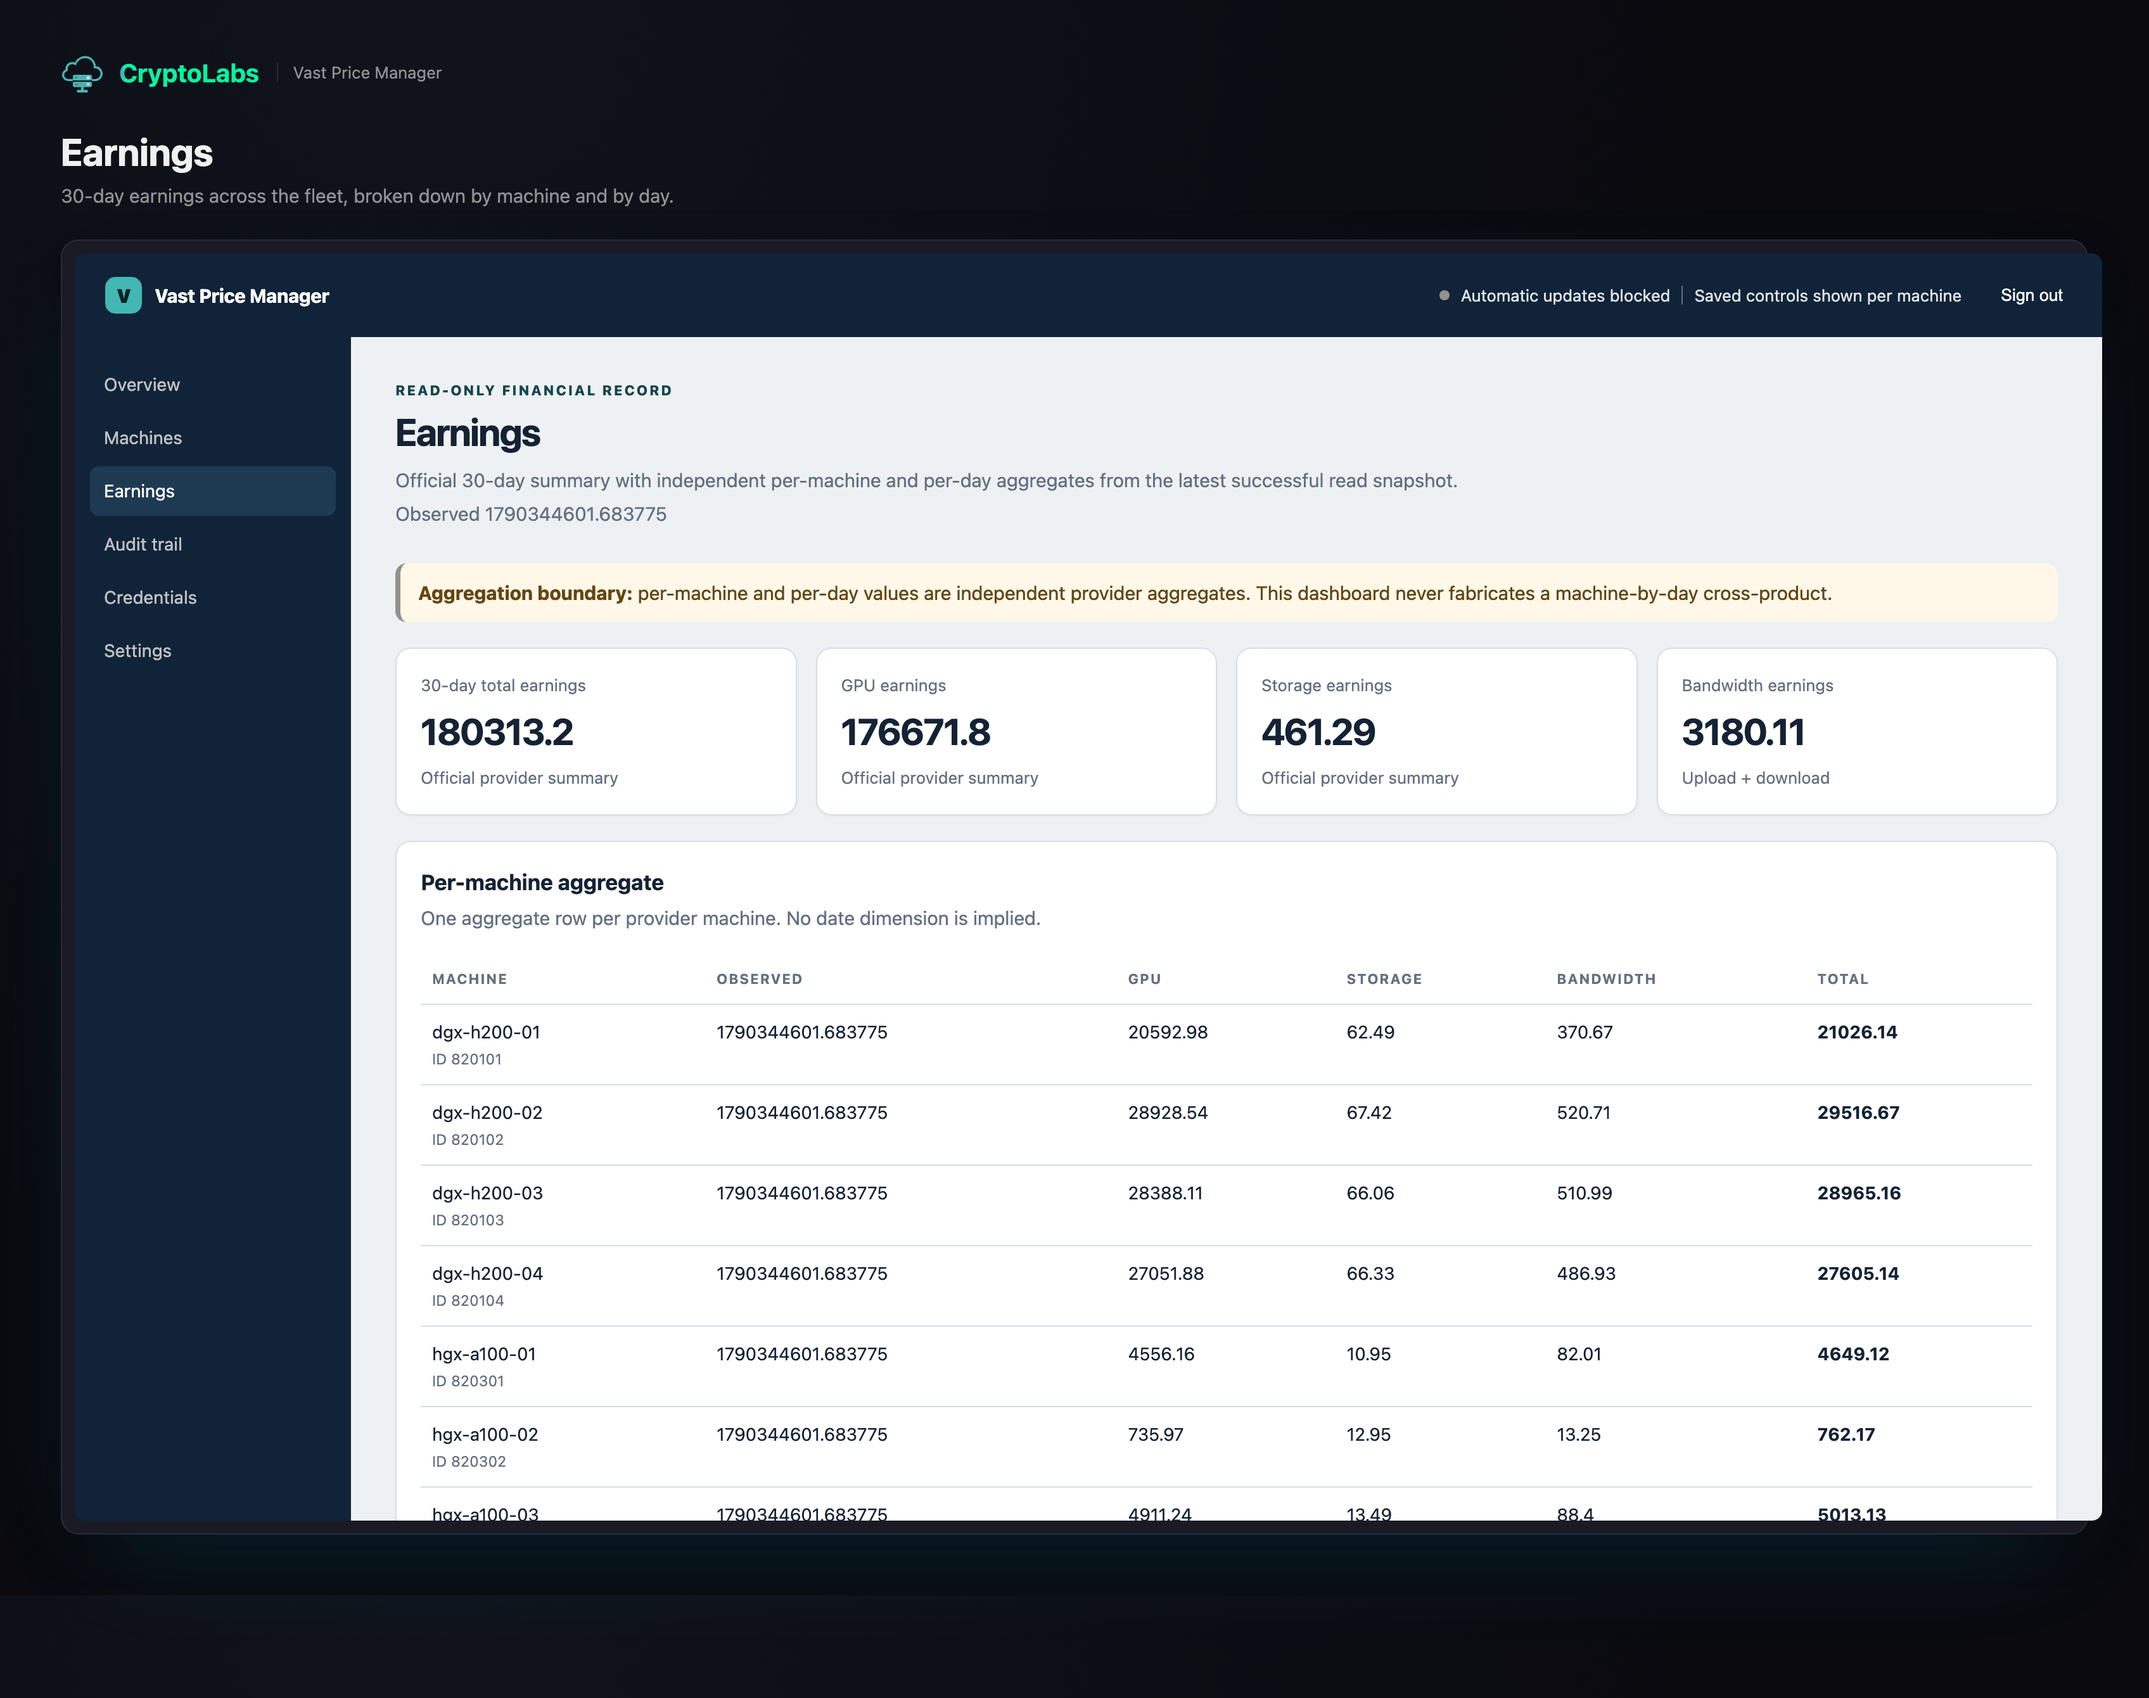
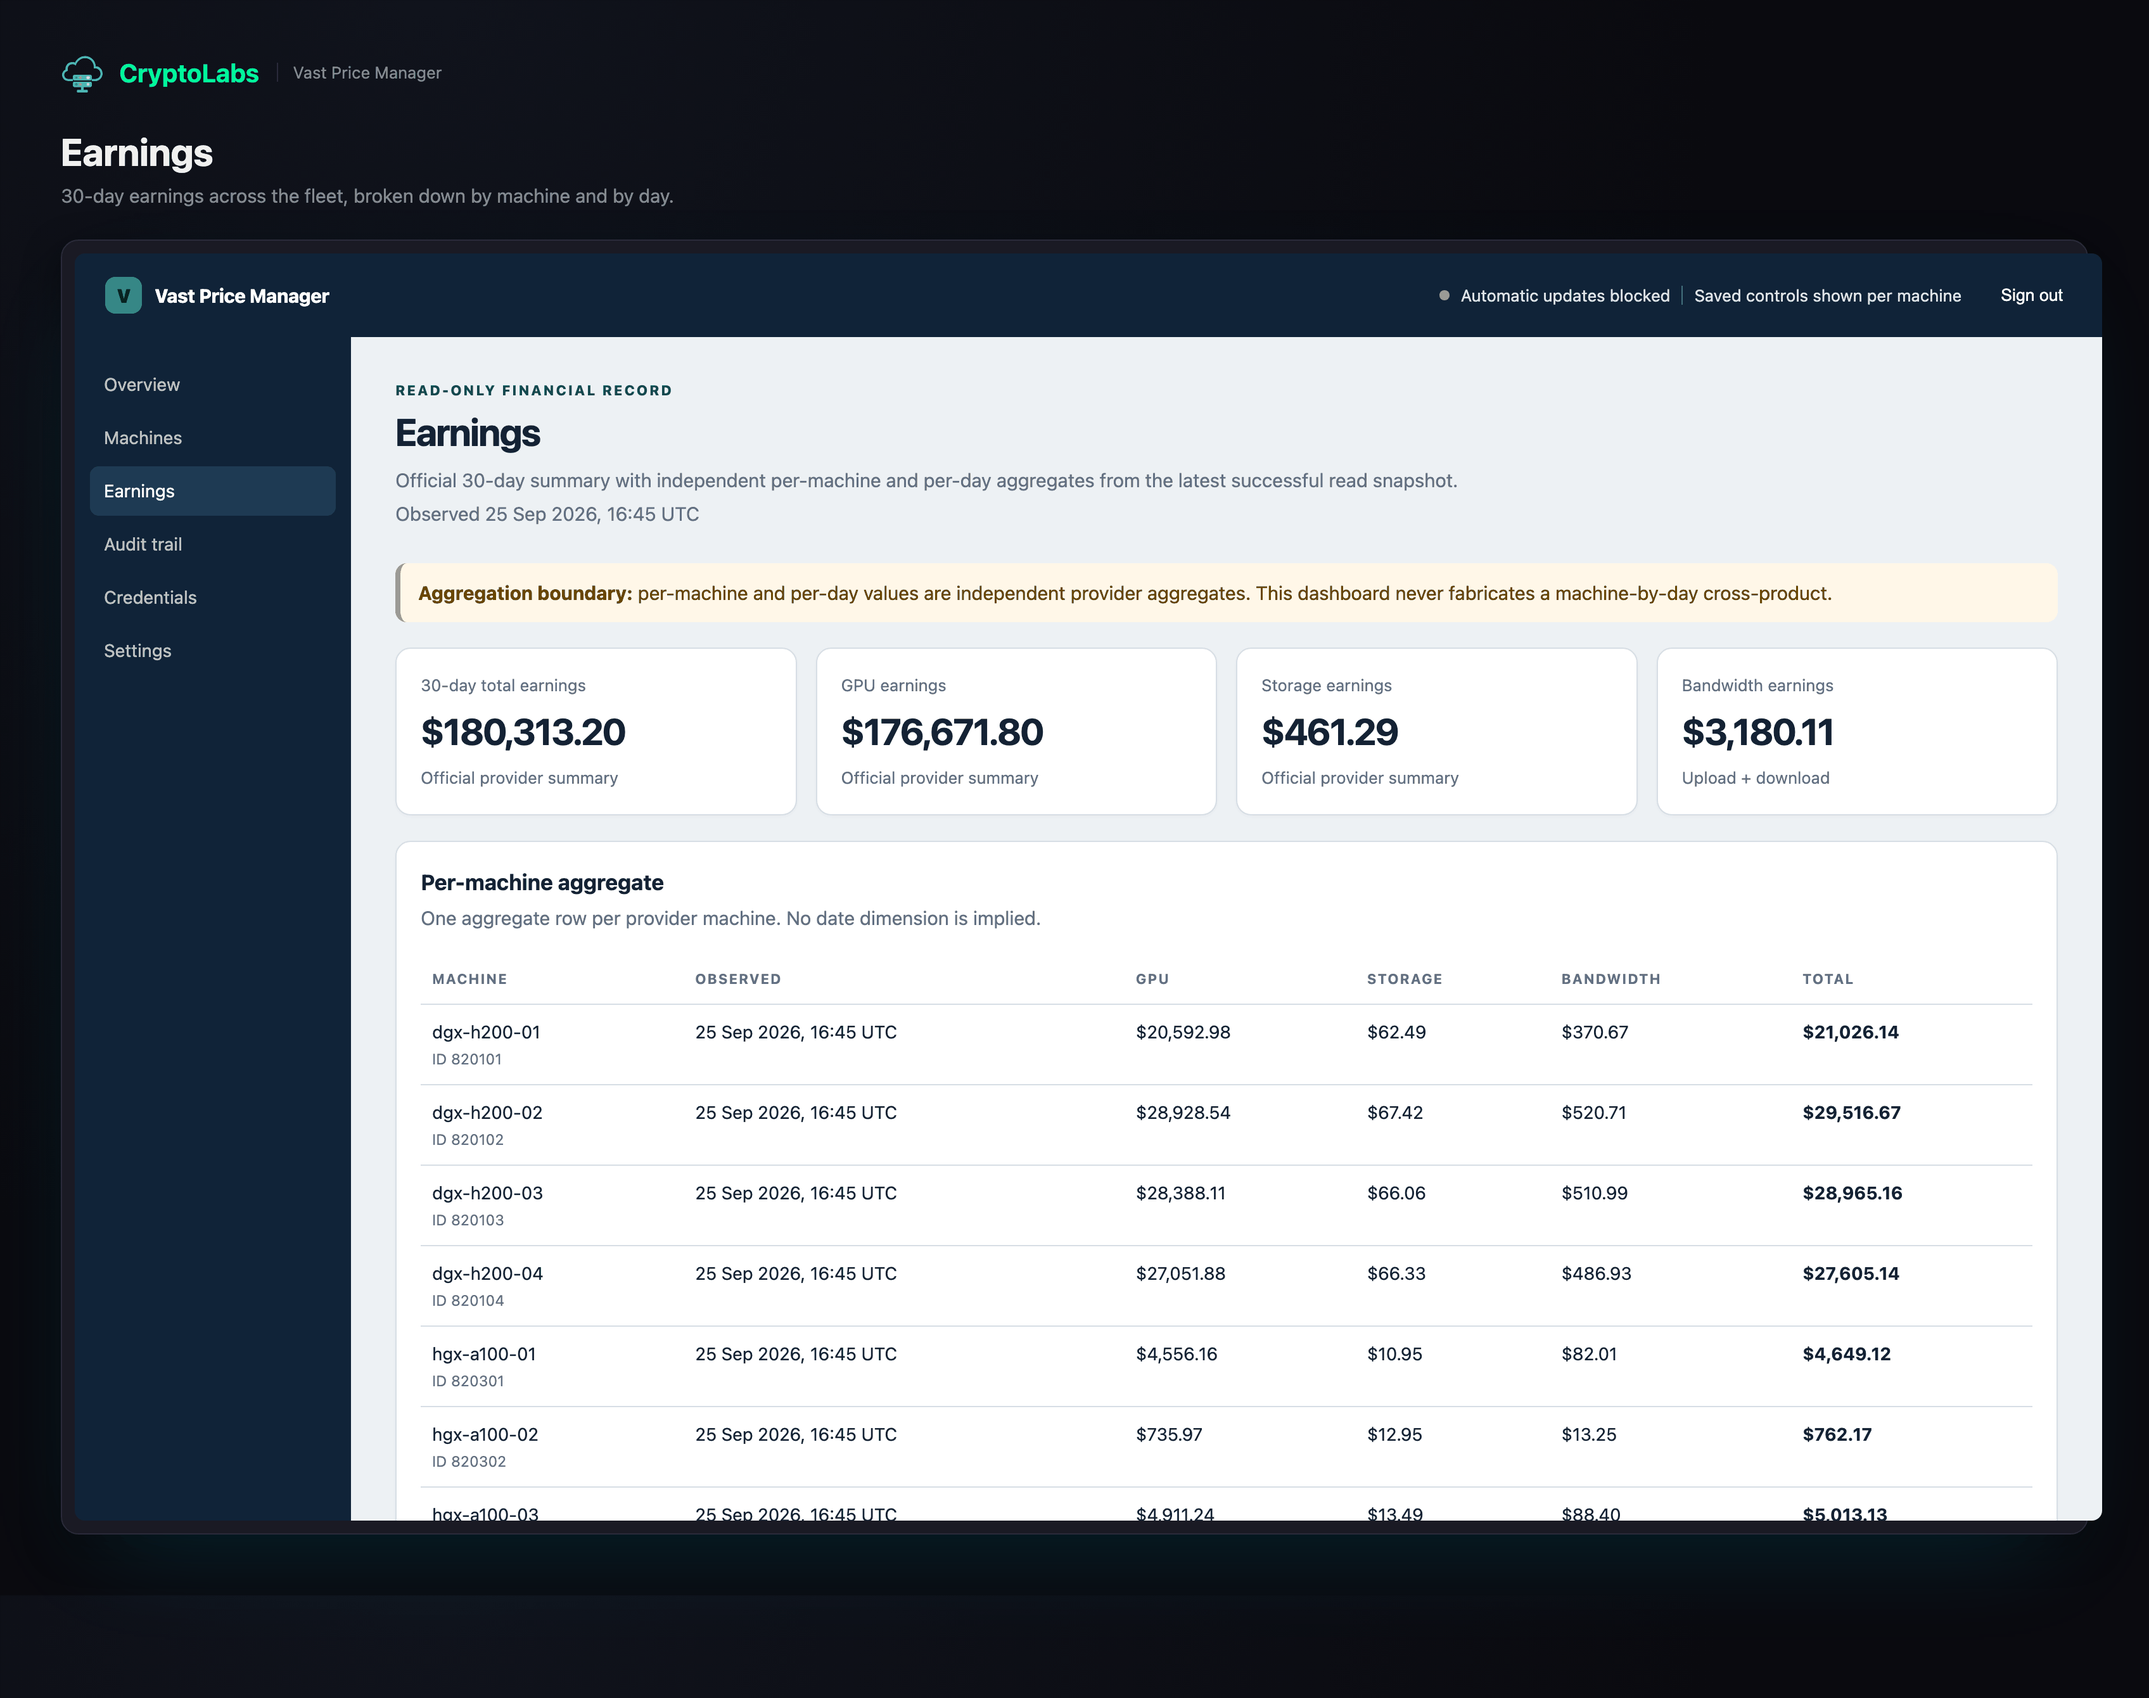
docs: retake screenshots with formatted values
Regenerate all 6 demo screenshots against VPM's latest display-formatting
fixes (money as "$1,234.56", timestamps as human dates, prices at their
real 6-decimal precision) and apply reviewer feedback: the Machines shot
now shows the full 16-row table (all four GPU tiers) instead of the
duplicated capacity panels; the Pricing decisions shot evaluates H200s
last so they lead the list, with the sidebar nav visible instead of an
empty band; the H200 machine detail has realistic saved floor/ceiling
prices set through the real policy-save path. README intro reworded to
drop "generated for this README" per the owner's captioning rule.

diff --git a/README.md b/README.md
@@ -50,10 +50,9 @@ Vast.ai console — it is a narrow, careful layer on top of one account.
 
 ## Screenshots
 
-The screenshots below show VPM's real interface running against a sample
-fleet (synthetic data, generated for this README) spanning DGX H200, H100
-SXM, HGX A100, and RTX 5090 machines — the CLI screenshot uses the real
-`vastai show machines` column layout.
+The screenshots below show VPM's real interface running a sample fleet
+spanning DGX H200, H100 SXM, HGX A100, and RTX 5090 machines — the CLI
+screenshot uses the real `vastai show machines` column layout.
 
 <p align="center">
   <img src="docs/images/vpm-overview.png" width="49%"
